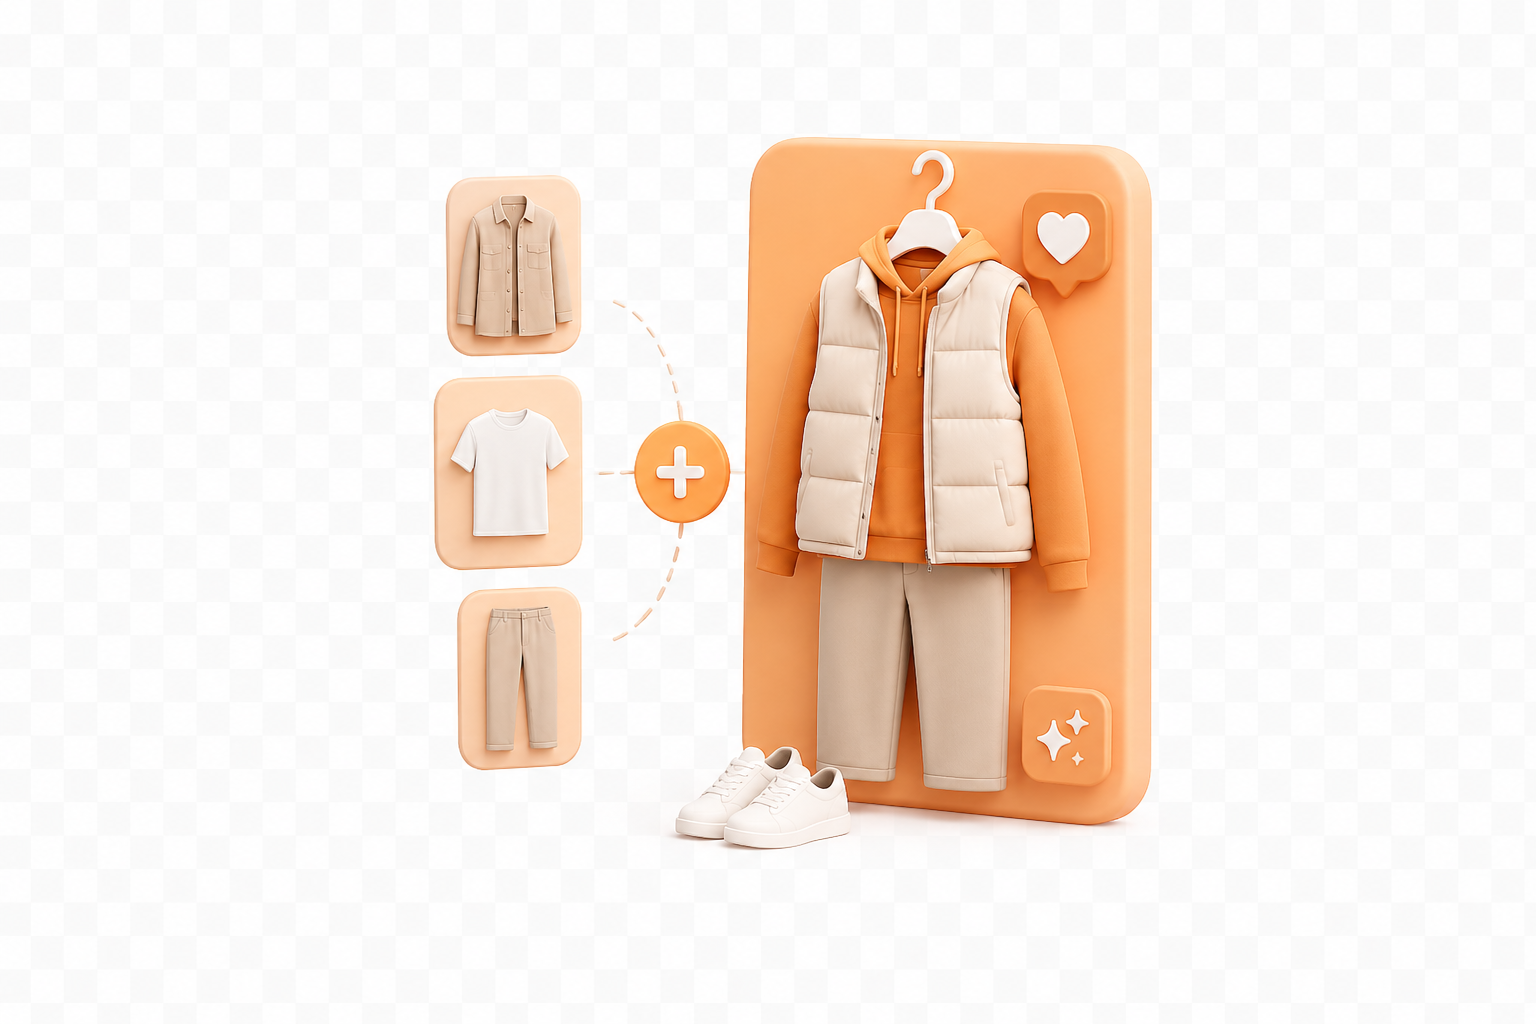
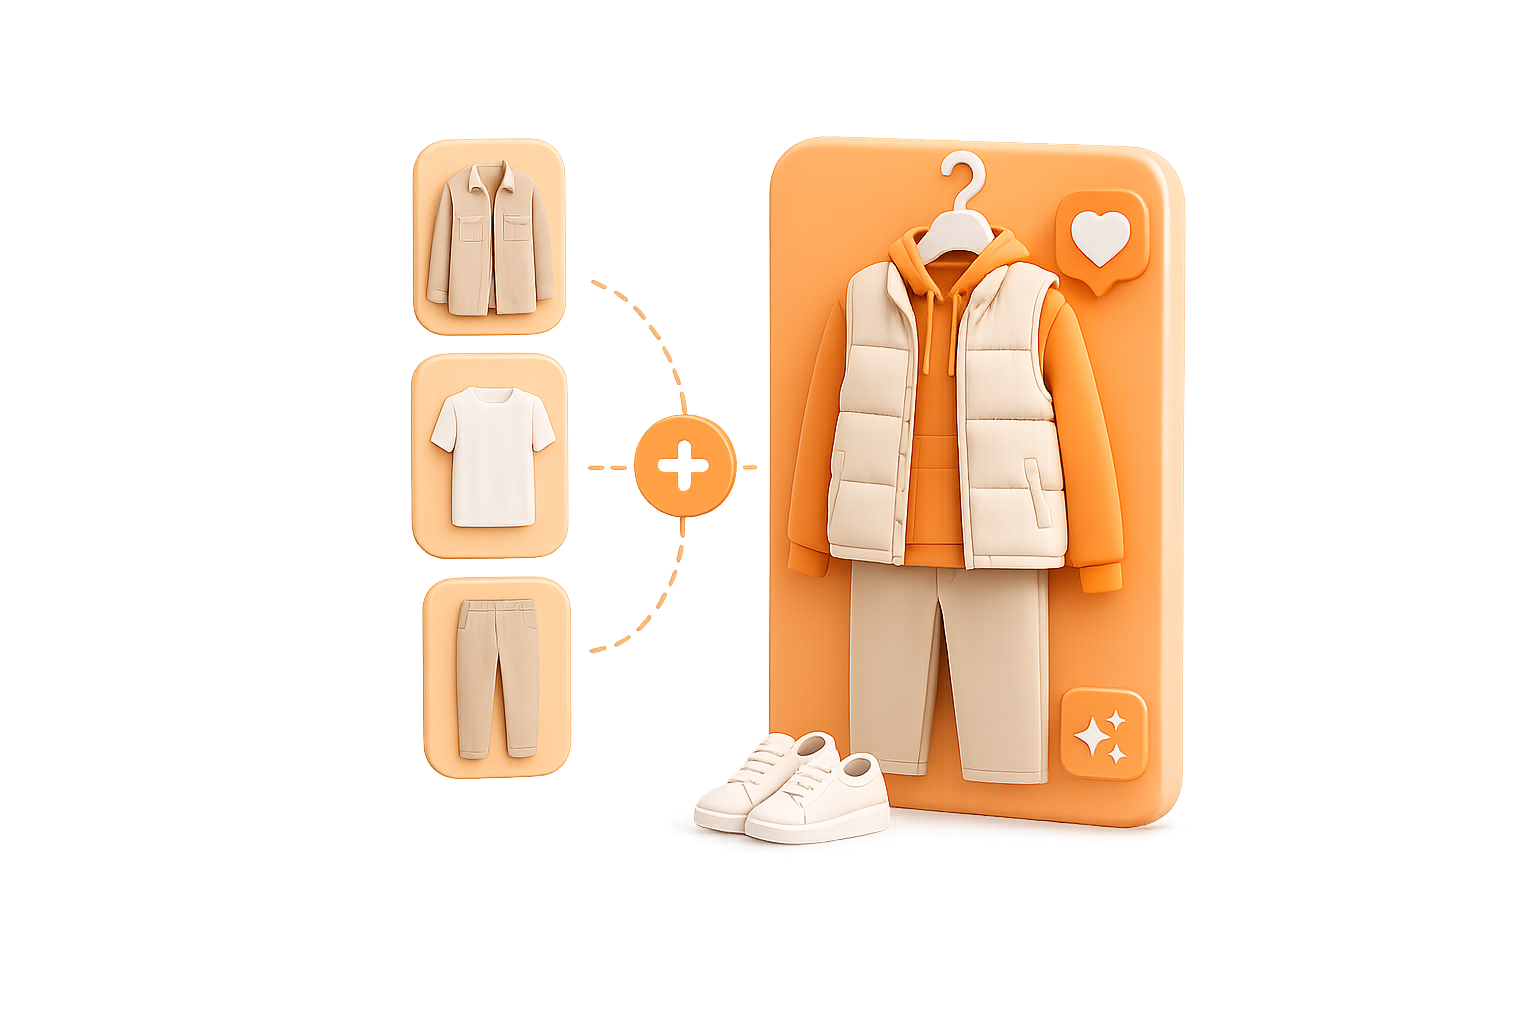
fix: remove

Changed region(s): [[0.25, 0.125, 0.7812, 0.8438], [0.4062, 0.3125, 0.4375, 0.3438]]

diff --git a/components/home/ProductGrid.tsx b/components/home/ProductGrid.tsx
@@ -225,13 +225,13 @@ function AIActionCards() {
       <div className="max-w-7xl mx-auto grid grid-cols-2 gap-3 sm:gap-4">
         <Link
           href="/chat"
-          className="group relative flex aspect-[13/9] flex-row items-center gap-3 overflow-hidden rounded-2xl bg-gradient-to-br from-amber-500 via-orange-500 to-pink-500 p-4 text-white shadow-md transition-all hover:-translate-y-1 hover:shadow-xl sm:aspect-[933/379] sm:rounded-3xl sm:p-6"
+          className="group relative flex aspect-[13/9] flex-row items-center gap-3 overflow-visible rounded-2xl bg-gradient-to-br from-amber-500 via-orange-500 to-pink-500 p-4 text-white shadow-md transition-all hover:-translate-y-1 hover:shadow-xl sm:aspect-[933/379] sm:rounded-3xl sm:p-6"
         >
           <img
             src="/product/orange.png"
             alt=""
             aria-hidden="true"
-            className="relative z-10 h-16 w-16 shrink-0 object-contain drop-shadow-[0_10px_18px_rgba(0,0,0,0.45)] sm:h-24 sm:w-24"
+            className="relative z-20 -my-6 -ms-1 h-28 w-28 shrink-0 object-contain drop-shadow-[0_18px_22px_rgba(0,0,0,0.5)] transition-transform group-hover:scale-105 sm:h-44 sm:w-44 sm:-my-9"
           />
 
           <div className="relative z-10 min-w-0 flex-1">
@@ -252,13 +252,13 @@ function AIActionCards() {
 
         <Link
           href="/products"
-          className="group relative flex aspect-[13/9] flex-row items-center gap-3 overflow-hidden rounded-2xl bg-gradient-to-br from-purple-600 via-fuchsia-600 to-indigo-600 p-4 text-white shadow-md transition-all hover:-translate-y-1 hover:shadow-xl sm:aspect-[933/379] sm:rounded-3xl sm:p-6"
+          className="group relative flex aspect-[13/9] flex-row items-center gap-3 overflow-visible rounded-2xl bg-gradient-to-br from-purple-600 via-fuchsia-600 to-indigo-600 p-4 text-white shadow-md transition-all hover:-translate-y-1 hover:shadow-xl sm:aspect-[933/379] sm:rounded-3xl sm:p-6"
         >
           <img
             src="/product/pink.png"
             alt=""
             aria-hidden="true"
-            className="relative z-10 h-16 w-16 shrink-0 object-contain drop-shadow-[0_10px_18px_rgba(0,0,0,0.45)] sm:h-24 sm:w-24"
+            className="relative z-20 -my-6 -ms-1 h-28 w-28 shrink-0 object-contain drop-shadow-[0_18px_22px_rgba(0,0,0,0.5)] transition-transform group-hover:scale-105 sm:h-44 sm:w-44 sm:-my-9"
           />
 
           <div className="relative z-10 min-w-0 flex-1">
